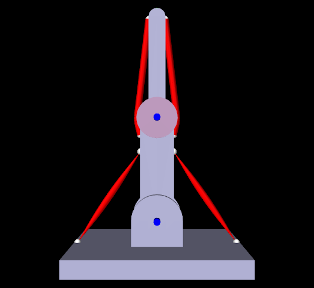
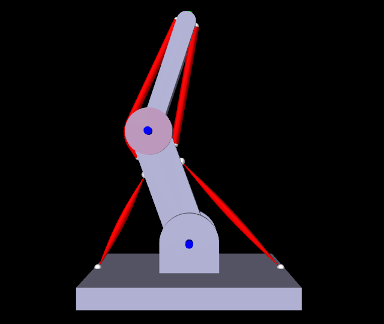
* updated ToyMuscleArm to be non-upright. * changed InverseMuscleArm, IKInverseMuscleArm, and InverseFrameExciterArm   to reflect his. * update documentation. * AxialMaterial: Added Millard2012AxialTendon and Thelen2003AxialTendon to   subclass list.

Changed region(s): [[0.172, 0.0, 0.8312, 1.0], [0.4873, 0.7188, 0.5159, 0.7812]]

diff --git a/doc/modelguide/inverse.tex b/doc/modelguide/inverse.tex
@@ -1084,27 +1084,18 @@ as shown in the code below:
 
 As mentioned above, this model extends {\tt ToyMuscleArm} (line 1), and so
 calls {\tt super.build(args)} in the {\tt build()} method to create all the
-components of {\tt ToyMuscleArm}. Once this is done, the link positions are
-adjusted by setting the hinge joint angles (lines 8-9); this is done to move
-the arm away from the kinematic singularity at full extension and thus make it
-easier for the tip to follow a prescribed path. After the links are moved, the
-all wrap paths are updated by calling the {\tt MechModel} method {\tt
-updateWrapPath()} (line 10).
-
-A tracking controller is then created (lines 13-14), and every {\tt
-Muscle} and {\tt MultiPointMuscle} is added to it as an exciter (lines 17-24).
-When iterating through the muscles, their rest lengths are reinitialized to
-their current lengths (which changed when the links were repositioned) to
-ensure that passive muscle forces are zero in the initial position.
+components of {\tt ToyMuscleArm}. A tracking controller is then created (lines
+7-8), and every {\tt Muscle} and {\tt MultiPointMuscle} is added to it as an
+exciter (lines 10-15).
 
 Next, the marker at the tip of link1 (referenced by the inherited attribute
-{\tt myTipMkr}) is added to the controller as a motion source (line 27) and
+{\tt myTipMkr}) is added to the controller as a motion source (line 18) and
 the returned target object is stored in {\tt target}.  An L2 regularization
-term is added to the controller with weight 0.01 (line 29), and an input probe
+term is added to the controller with weight 0.01 (line 20), and an input probe
 is created to provide the marker trajectory by setting the target's {\tt
-position} property (lines 31-46). The probe has a duration of 5 seconds, and
+position} property (lines 22-37). The probe has a duration of 5 seconds, and
 the trajectory is a closed path, specified by 5 cubically interpolated knot
-points (line 43), that lie in the x-z plane and start at and return to the
+points (line 36), that lie in the x-z plane and start at and return to the
 marker's initial position {\tt x0}, {\tt z0}.
 
 Probes are created to record the computed excitations and trace the
@@ -1112,20 +1103,20 @@ desired and actual trajectories in the viewer. The first, {\tt
 exprobe}, is created by the utility method {\tt
 createOutputProbe()} supplied by the
 \javaclass[\inverse]{InverseManager} class 
-(lines 49-52, Section \ref{InverseManagerProbes:sec}). The tracing probes
+(lines 40-43, Section \ref{InverseManagerProbes:sec}). The tracing probes
 are created by the {\tt RootModel} method
 \javamethod*[artisynth.core.workspace.RootModel]{addTracingProbe(,,,)} (lines
-56-62), and two are created: one to trace the desired target by recording the
+47-53), and two are created: one to trace the desired target by recording the
 {\sf position} property of {\tt target}, and another to trace the actual
 tracked (source) position by recording the {\sf position} property of {\tt
 myTipMkr}. The line colors of these are set to cyan and red, respectively,
 which specifies their display color in the viewer.
 
 Lastly, an {\it inverse control panel} (Section \ref{InverseControlPanel:sec})
-is created to manage controller properties (line 65), and some settings are
+is created to manage controller properties (line 56), and some settings are
 made to allow for probe management by the 
 \javaclass[\inverse]{InverseManager} class, as discussed
-in Section \ref{InverseManagerProbes:sec} (lines 67-70); this includes setting
+in Section \ref{InverseManagerProbes:sec} (lines 58-61); this includes setting
 the default probe duration to {\tt stopTime} and the working folder to {\tt
 inverseMuscleArm} located under the source folder.
 
@@ -1785,19 +1776,17 @@ from {\tt InverseMuscleArm:sec} are listed below:
 \lstset{numbers=left}
 \iflatexml
 %% Hack: latexml lstinputlisting doesn't handle firstline correctly
-\lstinputlisting[firstline=48,lastline=64]{../../src/artisynth/demos/tutorial/InverseFrameExciterArm.java}
+\lstinputlisting[firstline=43,lastline=51]{../../src/artisynth/demos/tutorial/InverseFrameExciterArm.java}
 \else
-\lstset{firstnumber={48}}
-\lstinputlisting[firstline=48,lastline=64]{../../src/artisynth/demos/tutorial/InverseFrameExciterArm.java}
+\lstset{firstnumber={43}}
+\lstinputlisting[firstline=43,lastline=51]{../../src/artisynth/demos/tutorial/InverseFrameExciterArm.java}
 \lstset{firstnumber={1}}
 \fi
 \lstset{numbers=none}
 %
-After the controller is created (lines 48-49), the muscle rest lengths are
-reset, as they are for {\tt InverseMuscleArm}, but they are {\it not} added to
-controller as exciters. Instead, four frame exciters are created to generate
-translational forces on each link in the x-z plane, up to a maximum force of
-200 (lines 61-64). These exciters are created using the method {\tt
+After the controller is created (lines 43-44), four frame exciters are created
+to generate translational forces on each link in the x-z plane, up to a maximum
+force of 200 (lines 61-64). These exciters are created using the method {\tt
 addFrameExciter()} (lines 32-37), which creates the exciter and adds it to the
 {\tt MechModel} and to the controller's exciter list.
 
@@ -3046,25 +3035,25 @@ and its class definition, excluding {\tt import} statements, is shown below:
 %
 The {\tt build()} method starts by setting up a tracking controller in the same
 manner as for {\tt InverseMuscleArm} (Section \ref{InverseMuscleArm:sec})
-(lines 10-21). Next, the {\tt base} body is marked as ``ground'' by setting its
-{\sf grounded} property (line 23); this is necessary to prevent the {\tt IKSolver}
+(lines 10-18). Next, the {\tt base} body is marked as ``ground'' by setting its
+{\sf grounded} property (line 20); this is necessary to prevent the {\tt IKSolver}
 from moving it.
 
 This example tracks three markers with component numbers 8, 0, and 2.  These
 are collected into the list {\tt markers} and added to the controller as
-targets (lines 23-39). A target position probe containing the marker
+targets (lines 20-36). A target position probe containing the marker
 trajectory, and attached to the tracking controller target points, is then
-created directly from the TRC file (lines 44-49). Since this file contains data
+created directly from the TRC file (lines 41-46). Since this file contains data
 for {\it all} the markers, we specify the markers we want using the label
 list {\tt mkrLabels} which was created from their numbers.
 
 To filter the marker data (which for this example has been deliberately
 misregistered), an {\tt IKSolver} is created and used to create an input probe
-containing a feasible trajectory (lines 52-55). The data from this probe is
-then used to overwrite that of the target position probe (line 56). After this
+containing a feasible trajectory (lines 49-51). The data from this probe is
+then used to overwrite that of the target position probe (line 53). After this
 is done, the target position probe is differentiated to create a target
-velocity probe (lines 59-62). To take advantage of this velocity information,
-the controller is configured to use PD control (lines 65-68) with constants
+velocity probe (lines 56-59). To take advantage of this velocity information,
+the controller is configured to use PD control (lines 62-65) with constants
 that were tuned manually. Lastly, an output probe is created to record the
 excitations, and another is created to observe both the target and actual
 position of the distal marker (which appears first in {\tt markers}).
@@ -3108,7 +3097,7 @@ the four probes, is given in Figure \ref{IKInverseMuscleArmTimeline:fig}.
 Figure \ref{IKInverseMuscleArmEx:fig} (left) shows the resulting excitations,
 while Figure \ref{IKInverseMuscleArmEx:fig} (right) shows the different
 excitations produced if the target trajectory is left unfiltered. (To run with
-an unfiltered trajectory, comment out line 56. The model with then appear as in
+an unfiltered trajectory, comment out line 53. The model with then appear as in
 Figure \ref{IKInverseMuscleArm:fig}, right). Finally, Figure
 \ref{IKInverseMuscleArmTracking:fig} shows two outputs of the ``distal
 tracking'' probe, the left one with velocity information available to the

diff --git a/doc/modelguide/muscleWrapping.tex b/doc/modelguide/muscleWrapping.tex
@@ -992,40 +992,45 @@ each link. The code, with {\tt import} directives excluded, is given below:
 \lstset{numbers=none}
 
 Within the {\tt build()} method, the mech model is created in the usual way and
-inertial damping is set to 1.0 (lines 75-77). Next, the rigid bodies depicting
-the base and links are created (lines 80-95). All bodies are created from
+inertial damping is set to 1.0 (lines 73-75). Next, the rigid bodies depicting
+the base and links are created (lines 78-93). All bodies are created from
 meshes, with the base being made non-dynamic and the poses of the links set so
 that they line up vertically in their start position
 (Figure \ref{ToyMuscleArm:fig}, left). A massless cylinder is created to
 provide a wrapping surface around the second hinge joint and attached to link1
-(lines 98-102). 
+(lines 96-109). 
 
 Hinge joints (Section \ref{HingeJoint:sec}) are then added between the base and
-link0 and link0 and link1 (lines 105-106), using the convenience method {\tt
-addHingeJoint()} (lines 60-72). This method creates a hinge joint at a prescribed
+link0 and link0 and link1 (lines 103-104), using the convenience method {\tt
+addHingeJoint()} (lines 58-70). This method creates a hinge joint at a prescribed
 position in the x-z plane, uses it to connect two bodies, sets the range for
 the joint angle {\sf theta}, and sets properties to render the shaft in blue.
 
 Next, point-to-point muscles are placed on opposite sides of each link (lines
-108-113). For link0, two {\tt Muscle} components are used, added with the
-method {\tt addMuscle()} (lines 18-30); this method creates a muscle connecting
+106-111). For link0, two {\tt Muscle} components are used, added with the
+method {\tt addMuscle()} (lines 18-29); this method creates a muscle connecting
 two bodies, using frame markers whose positions are specified in world
 coordinates in the x-z plane, and a {\tt SimpleMuscleMaterial}
 (Section \ref{SimpleAxialMuscle:sec}) with prescribed stiffness and maximum
 active force. For link1, {\tt MultiPointMuscle} components are used instead so
 that they can be wrapped around the wrapping cylinder. These muscles are created
-with the method {\tt addWrappedMuscle()} (lines 36-53), which creates a
+with the method {\tt addWrappedMuscle()} (lines 35-51), which creates a
 multipoint muscle connecting two bodies, using a single wrappable segment
 between two frame markers (also specified in the x-z plane). After the muscle
 is placed, its {\tt updateWrapSegments()} method is called to ``shrink wrap''
-it around the cylinder. Both the methods {\tt addMuscle()} and {\tt
-addWrappedMuscle()} set the rest length of each configured muscle to its
-current length (lines 28 and 50) to ensure that it will not exert passive
-tension in its initial configuration.
+it around the cylinder.
 
-A marker is attached to the tip on link1 at lines 140-141, and then a control
-panel is created to allow runtime adjustment of the four muscle excitation
-values (lines 144-149). Finally, render properties are set at lines 153-157.
+A marker is attached to the tip on link1 at lines 114-115, and then the links
+are repositioned, by setting the joint angles, so that the arm is not initially
+upright and will hence move when first run (lines 119-120). After
+repositioning, all wrap paths are updated by calling the {\tt MechModel} method
+{\tt updateWrapSegments()} (line 121), and the rest lengths for all muscles are
+set to their current lengths so that they will not initially exert passive
+tension (lines 124-127).
+
+A control panel is created to allow runtime adjustment of the four muscle
+excitation values (lines 130-135), and render properties are set at lines
+139-143.
 
 To run this example in ArtiSynth, select {\sf All demos > tutorial >
 ToyMuscleArm} from the {\sf Models} menu. The loaded model will appear as in

diff --git a/src/artisynth/demos/tutorial/ToyMuscleArm.java b/src/artisynth/demos/tutorial/ToyMuscleArm.java
@@ -52,7 +52,6 @@ public class ToyMuscleArm extends RootModel {
       muscle.setMaterial (
          new SimpleAxialMuscle (stiffness, /*damping=*/0, /*fmax=*/1000));
       myMech.attachAxialSpring (l0, l1, muscle);
-      muscle.setRestLength (muscle.getLength()); // init rest length
       return muscle;
    }
 
@@ -74,7 +73,6 @@ public class ToyMuscleArm extends RootModel {
       muscle.addPoint (l1);
       muscle.addWrappable (wrapBody);
       muscle.updateWrapSegments(); // shrink wrap to current wrappable
-      muscle.setRestLength (muscle.getLength()); // init rest length
       myMech.addMultiPointSpring (muscle);
       return muscle;
    }
@@ -142,6 +140,18 @@ public class ToyMuscleArm extends RootModel {
       // add a marker at the tip
       myTipMkr = myMech.addFrameMarkerWorld (
          myLink1, new Point3d(0.0, 0.0, 1.25));
+
+      // reposition the model using the joint angles to move it into a
+      // non-upright position so it will move when first run
+      myHinge0.setTheta (-20);
+      myHinge1.setTheta (38.4);
+      myMech.updateWrapSegments(); // update muscle wrapping for new config
+
+      // set muscle rest lengths to their initial lengths
+      muscleL0.setRestLength (muscleL0.getLength());
+      muscleR0.setRestLength (muscleR0.getLength());
+      muscleL1.setRestLength (muscleL1.getLength());
+      muscleR1.setRestLength (muscleR1.getLength());
 
       // add a control panel for muscle excitations
       ControlPanel panel = new ControlPanel ();

diff --git a/src/artisynth/demos/tutorial/InverseMuscleArm.java b/src/artisynth/demos/tutorial/InverseMuscleArm.java
@@ -29,23 +29,14 @@ public class InverseMuscleArm extends ToyMuscleArm {
    public void build (String[] args) throws IOException {
       super.build(args); // create ToyMuscleArm
 
-      // move the model into a non-singular position so it can track a target
-      // trajectory more easily
-      myHinge0.setTheta (-20);
-      myHinge1.setTheta (38.4);
-      myMech.updateWrapSegments(); // update muscle wrapping for new config
-      
-      // Create a tracking controller
+      // create a tracking controller
       TrackingController tcon = new TrackingController (myMech, "tcon");
       addController (tcon);
-      // For each muscle, reinitialize its rest length for the new
-      // configuration and add it to the controller as an exciter
+      // add each muscle to the controller as an exciter
       for (AxialSpring spr : myMech.axialSprings()) {
-         spr.setRestLength (spr.getLength());
          tcon.addExciter ((Muscle)spr);
       }
       for (MultiPointSpring spr : myMech.multiPointSprings()) {
-         spr.setRestLength (spr.getLength());
          tcon.addExciter ((MultiPointMuscle)spr);
       }
 

diff --git a/src/artisynth/demos/tutorial/InverseFrameExciterArm.java b/src/artisynth/demos/tutorial/InverseFrameExciterArm.java
@@ -39,22 +39,9 @@ public class InverseFrameExciterArm extends ToyMuscleArm {
    public void build (String[] args) throws IOException {
       super.build(args); // create ToyMuscleArm
 
-      // move the model into a non-singular position so it can track a target
-      // trajectory more easily
-      myHinge0.setTheta (-20);
-      myHinge1.setTheta (38.4);
-      myMech.updateWrapSegments(); // update muscle wrapping for new config
       // Create a tracking controller
       TrackingController tcon = new TrackingController (myMech, "tcon");
       addController (tcon);
-      // For each muscle, reinitialize its rest length for the new
-      // configuration
-      for (AxialSpring spr : myMech.axialSprings()) {
-         spr.setRestLength (spr.getLength());
-      }
-      for (MultiPointSpring spr : myMech.multiPointSprings()) {
-         spr.setRestLength (spr.getLength());
-      }
       
       // For each link, add two frame exciters to give the controller access to
       // translational forces in the x-z plane

diff --git a/src/artisynth/demos/tutorial/IKInverseMuscleArm.java b/src/artisynth/demos/tutorial/IKInverseMuscleArm.java
@@ -41,14 +41,11 @@ public class IKInverseMuscleArm extends ToyMuscleArm {
       // create a tracking controller
       TrackingController tcon = new TrackingController (myMech, "tcon");
       addController (tcon);
-      // for each muscle, reinitialize its rest length for the new
-      // configuration and add it to the controller as an exciter
+      // add each muscle to the controller as an exciter
       for (AxialSpring spr : myMech.axialSprings()) {
-         spr.setRestLength (spr.getLength());
          tcon.addExciter ((Muscle)spr);
       }
       for (MultiPointSpring spr : myMech.multiPointSprings()) {
-         spr.setRestLength (spr.getLength());
          tcon.addExciter ((MultiPointMuscle)spr);
       }
       // set the base to be ground - useful when using the IK solver

diff --git a/src/artisynth/core/materials/AxialMaterial.java b/src/artisynth/core/materials/AxialMaterial.java
@@ -18,8 +18,10 @@ public abstract class AxialMaterial extends MaterialBase {
       Hill3ElemMuscleRigidTendon.class,
       Blankevoort1991AxialLigament.class,
       Millard2012AxialMuscle.class,
+      Millard2012AxialTendon.class,
       Millard2012AxialLigament.class,
-      Thelen2003AxialMuscle.class
+      Thelen2003AxialMuscle.class,
+      Thelen2003AxialTendon.class
    };
 
    public static Class<?>[] getSubClasses() {

diff --git a/src/artisynth/demos/tutorial/IKInverseMuscleArmGen.java b/src/artisynth/demos/tutorial/IKInverseMuscleArmGen.java
@@ -103,7 +103,7 @@ public class IKInverseMuscleArmGen extends ToyMuscleArm {
       angProbe.setName ("angle inputs");
       angProbe.setData (
          new double[] {
-            0, 0, 0,
+            0, -20, 38.4,
             1.0, 0, -45,
             2, 0, 45,
             3, 45, -45,
